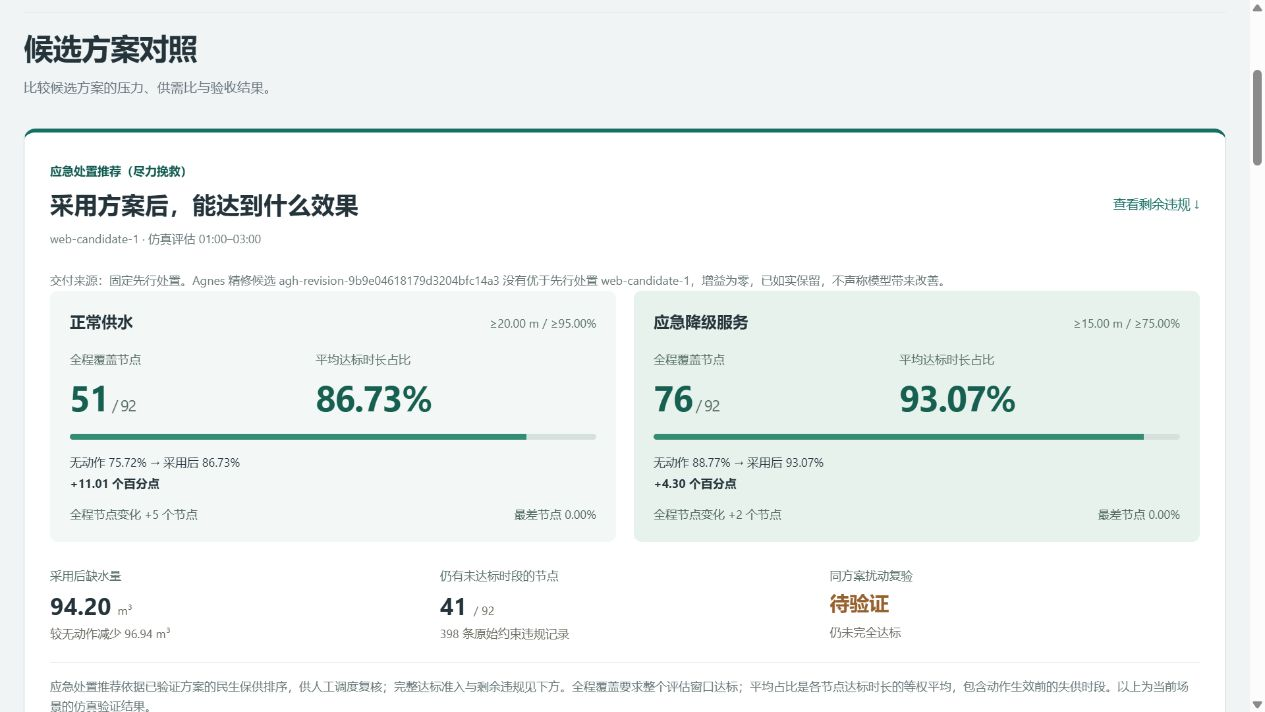
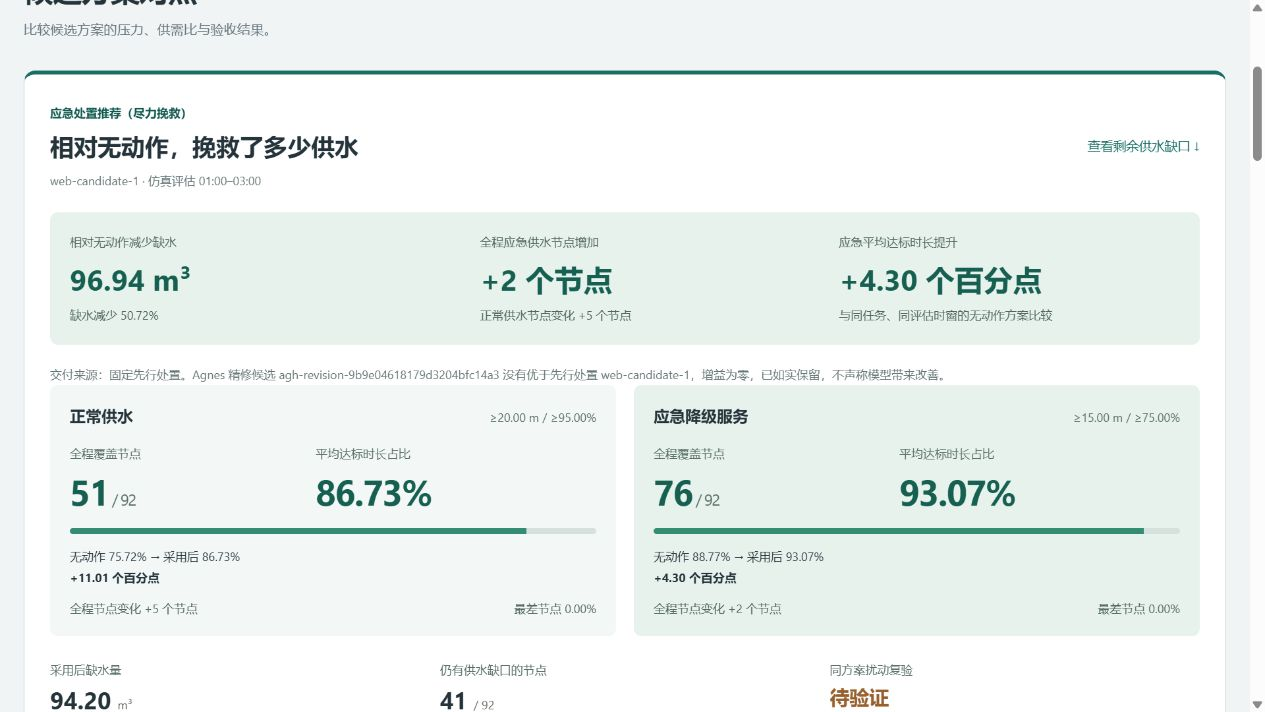
feat(ui): emphasize verified rescue and distinguish remaining supply gaps

diff --git a/apps/web-gpt/src/Pages.tsx b/apps/web-gpt/src/Pages.tsx
@@ -12,6 +12,7 @@ import {
   networkName,
   recommendationBlockerText,
   recommendedDispatch,
+  dispatchStatus,
   runStatusText,
   statusText,
   time,
@@ -50,7 +51,7 @@ export function Admission({
               )}
             </span>
             <span>{label}</span>
-            <small>{statusText[value]}</small>
+            <small>{key === "nominal_constraints_pass" ? value === "pass" ? "已恢复" : value === "fail" ? "仍有供水缺口" : "待评估" : statusText[value]}</small>
             {!compact && i < gates.length - 1 && (
               <span className="gate-connector" />
             )}
@@ -83,13 +84,13 @@ export function Violations({
       <div className="panel-heading">
         <div>
           <h2>
-            验收反馈{" "}
+            剩余供水缺口{" "}
             <span className="count">{c.verification.violations.length}</span>
           </h2>
           <span>点击记录定位节点与时段</span>
         </div>
         <select
-          aria-label="筛选违规类型"
+          aria-label="筛选剩余供水缺口类型"
           value={filter}
           onChange={(e) => {
             setFilter(e.target.value);
@@ -105,7 +106,7 @@ export function Violations({
         <p className="empty-small">
           {c.verification.validity === "invalid"
             ? "仿真数据无效，请查看无效原因。"
-            : "当前没有此类违规。"}
+            : "当前没有此类剩余供水缺口。"}
         </p>
       ) : (
         <>
@@ -227,16 +228,9 @@ export function Compare({
                 {String.fromCharCode(65 + i)}
               </span>
               <span
-                className={`badge ${dispatch?.candidate.id === c.id ? (dispatch.tier === 'fully_compliant' ? 'pass' : 'pending') : c.verification.admission.recommendation_eligible}`}
+                className={`badge ${dispatchStatus(c, w).tone}`}
               >
-                {dispatch?.candidate.id === c.id
-                  ? dispatch.tier === 'fully_compliant' ? '完全达标推荐' : '应急处置推荐'
-                  : c.verification.admission.recommendation_eligible === "pass"
-                  ? "完整准入通过"
-                  : c.verification.admission.recommendation_eligible ===
-                      "pending"
-                    ? "待验证"
-                    : "未完全达标"}
+                {dispatchStatus(c, w).label}
               </span>
             </div>
             <h2>{c.name}</h2>
@@ -274,7 +268,7 @@ export function Compare({
             </div>
             <p>最差节点正常供水时间：{c.verification.metrics.min_node_time_pass_ratio == null ? '—' : `${num(c.verification.metrics.min_node_time_pass_ratio * 100)}%`}</p>
             <p>全程完全达标节点：{c.verification.metrics.fully_compliant_node_count ?? '—'} / {c.verification.metrics.assessed_node_count ?? '—'}</p>
-            {dispatch?.candidate.id === c.id && dispatch.tier === 'best_effort' && <p>推荐用于应急尽力挽救 · 已测方案中优先保障基本供水，仍未完全达标，详见下方准入与违规。</p>}
+            {dispatch?.candidate.id === c.id && dispatch.tier === 'best_effort' && <p>推荐用于应急尽力挽救 · 已测方案中优先保障基本供水，正常供水恢复状态及剩余供水缺口另列。</p>}
             {c.task.emergency_floor && <p>应急降级服务（≥{c.task.emergency_floor.min_pressure_m} m／≥{num(c.task.emergency_floor.min_supply_ratio * 100)}%）：全程覆盖 {c.verification.metrics.nodes_reaching_emergency_service ?? '—'} 个节点；平均 {c.verification.metrics.emergency_mean_node_time_pass_ratio == null ? '—' : `${num(c.verification.metrics.emergency_mean_node_time_pass_ratio * 100)}%`}，最差 {c.verification.metrics.emergency_min_node_time_pass_ratio == null ? '—' : `${num(c.verification.metrics.emergency_min_node_time_pass_ratio * 100)}%`}。</p>}
             {w.mitigation?.candidate_id === c.id && <details><summary>相对无动作基线的逐节点改善{w.mitigation.any_node_regressed ? '（含回退节点）' : ''}</summary><table><thead><tr><th>节点</th><th>基线正常秒数</th><th>挽救正常秒数</th><th>变化（秒）</th><th>降级覆盖变化（秒）</th></tr></thead><tbody>{w.mitigation.per_node.map(row => <tr key={row.node_id}><td>{row.node_id}</td><td>{num(row.baseline_normal_s, 0)}</td><td>{num(row.selected_normal_s, 0)}</td><td>{num(row.delta_s, 0)}</td><td>{row.emergency_delta_s == null ? '未配置' : num(row.emergency_delta_s, 0)}</td></tr>)}</tbody></table></details>}
             {c.verification.metrics.node_availability && <details><summary>各节点正常供水时长与占比</summary><table><thead><tr><th>节点</th><th>正常供水 / 评估时长（秒）</th><th>占比</th></tr></thead><tbody>{c.verification.metrics.node_availability.map(row => <tr key={row.node_id}><td>{row.node_id}</td><td>{num(row.normal_supply_duration_s, 0)} / {num(row.assessed_duration_s, 0)}</td><td>{row.normal_supply_time_ratio == null ? '—' : `${num(row.normal_supply_time_ratio * 100)}%`}</td></tr>)}</tbody></table></details>}
@@ -320,10 +314,7 @@ export function Compare({
         <Icon name="shield" size={25} />
         <div>
           <strong>
-            {dispatch?.candidate.id === selected.id && dispatch.tier === 'best_effort'
-              ? '应急处置推荐 · 完全达标准入未通过'
-              : selected.verification.admission.recommendation_eligible === "pass"
-                ? "完全达标推荐准入通过" : "完全达标推荐准入未通过"}
+            {dispatchStatus(selected, w).label}
           </strong>
           <p>
             {selected.verification.recommendation_blockers.length
@@ -331,7 +322,7 @@ export function Compare({
               : "请查看五层准入与原始验收报告。"}
           </p>
           {selected.verification.verifier_version.startsWith('waterguard-dense-verifier/') && (
-            <p>验收指标与违规区间按全部内部水力时刻计算；图中曲线采用 {num(selected.task.time_window.step_s / 60)} 分钟公共采样。供水量不含漏损，压力复验必须沿用同一动作方案。</p>
+            <p>供水指标与缺口区间按全部内部水力时刻计算；图中曲线采用 {num(selected.task.time_window.step_s / 60)} 分钟公共采样。供水量不含漏损，压力复验必须沿用同一动作方案。</p>
           )}
         </div>
         <button

diff --git a/apps/web-gpt/src/ServiceOutcome.tsx b/apps/web-gpt/src/ServiceOutcome.tsx
@@ -1,5 +1,5 @@
 import type { Candidate, Workspace } from './data';
-import { deliveryProvenance, num, serviceOutcome, time } from './data';
+import { deliveryProvenance, dispatchStatus, num, serviceOutcome, time } from './data';
 import './service-outcome.css';
 
 const percent = (v: number | null) => v == null ? '未提供' : `${num(v * 100)}%`;
@@ -19,7 +19,8 @@ function provenanceText(p: NonNullable<ReturnType<typeof deliveryProvenance>>) {
 export default function ServiceOutcome({ candidate: c, workspace: w }: { candidate: Candidate; workspace: Workspace }) {
   const effect = serviceOutcome(c, w);
   if (!effect) return <section className="service-outcome"><h2>当前方案尚无有效效果评估</h2><p>查看下方验收报告中的无效原因。</p></section>;
-  const label = effect.delivery === 'mitigation' ? '应急处置推荐（尽力挽救）'
+  const status = dispatchStatus(c, w);
+  const label = status.kind === 'illegal_action' ? status.label : status.kind === 'emergency' ? '应急处置推荐（尽力挽救）'
     : effect.delivery === 'recommendation' ? '完全达标推荐' : '当前候选仿真效果 · 尚非正式交付';
   const provenance = effect.delivery === 'candidate' ? null : deliveryProvenance(w);
   const layers = [{ key: 'normal', title: '正常供水', values: effect.normal,
@@ -28,10 +29,18 @@ export default function ServiceOutcome({ candidate: c, workspace: w }: { candida
       floor: `≥${num(c.task.emergency_floor!.min_pressure_m)} m / ≥${num(c.task.emergency_floor!.min_supply_ratio * 100)}%` }] : [])];
   return <section className="service-outcome" aria-label="方案供水效果">
     <header className="service-outcome-heading">
-      <div><span className="service-outcome-label">{label}</span><h2>采用方案后，能达到什么效果</h2>
+      <div><span className="service-outcome-label">{label}</span><h2>相对无动作，挽救了多少供水</h2>
         <p>{c.name} · 仿真评估 {time(c.task.time_window.evaluation_start_s ?? c.task.time_window.start_s)}–{time(c.task.time_window.end_s)}</p></div>
-      <a className="text-button" href="#remaining-violations">查看剩余违规 ↓</a>
+      <a className="text-button" href="#remaining-violations">查看剩余供水缺口 ↓</a>
     </header>
+    <div className="service-rescue-highlight" aria-label="相对无动作的挽救效果">
+      <div><span>相对无动作减少缺水</span><strong>{effect.shortageReduction == null ? '无可比基线' : `${num(effect.shortageReduction)} m³`}</strong>
+        <small>{effect.shortageReductionPct == null ? '保留原始结果，不推断减幅' : `${effect.shortageReductionPct >= 0 ? '缺水减少' : '缺水增加'} ${num(Math.abs(effect.shortageReductionPct))}%`}</small></div>
+      <div><span>全程应急供水节点增加</span><strong>{change(effect.emergency?.deltaCount ?? null, '个节点')}</strong>
+        <small>正常供水节点变化 {change(effect.normal.deltaCount, '个节点')}</small></div>
+      <div><span>应急平均达标时长提升</span><strong>{change(effect.emergency?.deltaPp ?? null, '个百分点')}</strong>
+        <small>与同任务、同评估时窗的无动作方案比较</small></div>
+    </div>
     {provenance && <p className="service-outcome-note" data-testid="delivery-provenance">{provenanceText(provenance)}</p>}
     <div className="service-outcome-grid">
       {layers.map(({ key, title, values: v, floor }) => <article className={`service-layer ${key}`} key={key}>
@@ -46,11 +55,11 @@ export default function ServiceOutcome({ candidate: c, workspace: w }: { candida
     <div className="service-outcome-residual">
       <div><span>采用后缺水量</span><strong>{num(effect.shortage)} <small>m³</small></strong>
         <small>{effect.shortageReduction == null ? '无可比基线' : `较无动作${effect.shortageReduction >= 0 ? '减少' : '增加'} ${num(Math.abs(effect.shortageReduction))} m³`}</small></div>
-      <div><span>仍有未达标时段的节点</span><strong>{effect.residualNodeCount} <small>/ {effect.total ?? '—'}</small></strong>
-        <small>{effect.violationCount} 条原始约束违规记录</small></div>
+      <div><span>仍有供水缺口的节点</span><strong>{effect.residualNodeCount} <small>/ {effect.total ?? '—'}</small></strong>
+        <small>{effect.supplyGapCount} 条剩余供水缺口记录（节点 × 区间 × 要求）</small></div>
       <div><span>同方案扰动复验</span><strong className="service-stress">{c.verification.admission.required_stress_tests_pass === 'pass' ? '已通过' : c.verification.admission.required_stress_tests_pass === 'fail' ? '未通过' : '待验证'}</strong>
-        <small>{effect.violationCount ? '仍未完全达标' : '推荐资格以完整验收为准'}</small></div>
+        <small>{status.kind === 'emergency' ? '用于说明恢复边界，不否定应急挽救推荐' : '完整恢复状态单独核查'}</small></div>
     </div>
-    <p className="service-outcome-note">{effect.delivery === 'mitigation' && '应急处置推荐依据已验证方案的民生保供排序，供人工调度复核；完整达标准入与剩余违规见下方。'}全程覆盖要求整个评估窗口达标；平均占比是各节点达标时长的等权平均，包含动作生效前的失供时段。以上为当前场景的仿真验证结果。</p>
+    <p className="service-outcome-note">{status.kind === 'emergency' && '故障后未完全恢复不否定挽救价值：应急处置推荐依据已验证的基本供水保障效果，供人工调度复核。'}剩余供水缺口表示仍有节点或时段低于正常供水目标，不是非法操作；非法操作才属于违规。全程覆盖要求整个评估窗口达标；平均占比是各节点达标时长的等权平均，包含动作生效前的失供时段。以上为当前场景的仿真验证结果。</p>
   </section>;
 }

diff --git a/apps/web-gpt/src/agent-branches.ts b/apps/web-gpt/src/agent-branches.ts
@@ -72,7 +72,7 @@ export function branchGraph(frames: ExecutionFrame[], run: RunRecord | null) {
       const state = group.some(c => c.state === 'running') ? 'running' : group.some(c => c.state === 'fail') ? 'fail' : group.some(c => c.state === 'interrupted') ? 'interrupted' : 'ok';
       const n = place({ ...last, id: `evaluation:${group[0].id}`, title: group.length > 1 ? '仿真与验收' : last.title,
         state, startedAt: group[0].startedAt, events: group.flatMap(c => c.events), assessment,
-        summary: assessment ? `最低压力 ${assessment.metrics.min_pressure_m?.toFixed(2) ?? '—'} m · 违规 ${assessment.violation_count}` : last.summary }, 2, y + i * 286);
+        summary: assessment ? `最低压力 ${assessment.metrics.min_pressure_m?.toFixed(2) ?? '—'} m · 剩余供水缺口 ${assessment.violation_count}` : last.summary }, 2, y + i * 286);
       group.forEach(c => mapped.set(c.id, n.id));
       const preceding = submissions.filter(c => Date.parse(c.startedAt) <= Date.parse(group[0].startedAt)).at(-1);
       connect(preceding?.id ?? candidate.id, n.id, 'chosen');
@@ -83,7 +83,7 @@ export function branchGraph(frames: ExecutionFrame[], run: RunRecord | null) {
         const gate = place({ id: `${n.id}:${key}`, title: `${title}${result === 'pass' ? '通过' : result === 'fail' ? '未通过' : '待验证'}`,
           kind: 'condition', tool: '调用时验收报告', state: result === 'pass' ? 'ok' : result === 'fail' ? 'fail' : 'wait',
           statusLabel: result === 'pass' ? '通过' : result === 'fail' ? '未通过' : '待验证',
-          summary: key === 'nominal_constraints_pass' ? `违规 ${assessment.violation_count} 项` : result === 'pending' ? '等待扰动验收结果' : result === 'pass' ? '扰动验收已通过' : '扰动验收未通过',
+          summary: key === 'nominal_constraints_pass' ? `剩余供水缺口 ${assessment.violation_count} 项` : result === 'pending' ? '等待扰动验收结果' : result === 'pass' ? '扰动验收已通过' : '扰动验收未通过',
           startedAt: report!.occurred_at, events: [], candidateId: id, assessment, x: 0, y: 0 }, 3, n.y + j * 134);
         connect(n.id, gate.id, 'outcome', title); bottom = Math.max(bottom, gate.y + L.h);
       }

diff --git a/apps/web-gpt/src/App.tsx b/apps/web-gpt/src/App.tsx
@@ -7,10 +7,10 @@ import {
   engineStatus,
   loadWorkspace,
   deliveredCandidate,
+  dispatchStatus,
   networkName,
   num,
   sources,
-  statusText,
   time,
 } from "./data";
 import type { Candidate, Source, Workspace } from "./data";
@@ -157,7 +157,6 @@ function Inspector({
         : link?.kind === "valve"
           ? "阀门"
           : "管段";
-  const eligible = c.verification.admission.recommendation_eligible;
   return (
     <aside className="inspector">
       <div className="inspector-top">
@@ -313,15 +312,11 @@ function Inspector({
               : "方案来源：固定工程脚本"}
         </p>
       </div>
-      <div className={`inspector-verdict ${eligible}`}>
+      <div className={`inspector-verdict ${dispatchStatus(c, w).tone}`}>
         <Icon name="shield" size={19} />
         <div>
           <strong>
-            {eligible === "pass"
-              ? "可推荐"
-              : eligible === "pending"
-                ? "推荐待验证"
-                : "当前不可推荐"}
+            {dispatchStatus(c, w).label}
           </strong>
         </div>
       </div>
@@ -684,11 +679,9 @@ function Overview({
         </div>
         <Admission key={c.id} candidate={c} />
         <span
-          className={`badge ${c.verification.admission.recommendation_eligible}`}
+          className={`badge ${dispatchStatus(c, w).tone}`}
         >
-          {w.run?.mitigation_candidate_id === c.id ? '尽力挽救 · 未完全达标' : c.verification.admission.recommendation_eligible === "fail"
-            ? "不可推荐"
-            : statusText[c.verification.admission.recommendation_eligible]}
+          {dispatchStatus(c, w).label}
         </span>
       </div>
       <div className="lower-grid">

diff --git a/apps/web-gpt/src/Network.tsx b/apps/web-gpt/src/Network.tsx
@@ -180,7 +180,7 @@ export function Network({
     !!frame &&
     frame.time_s >= fault.start_s &&
     frame.time_s < fault.end_s;
-  // 当前帧落在违规时段 [start, end) 内的节点：由验收报告给出，不由前端判定。
+  // 当前帧落在剩余供水缺口时段 [start, end) 内的节点：由验收报告给出，不由前端判定。
   const violating = new Set(
     frame
       ? c.verification.violations
@@ -377,7 +377,7 @@ export function Network({
   useEffect(() => {
     setView(FIT);
   }, [w.scene]);
-  // 外部选中（违规列表、搜索）的实体若在视野外，平移过去。
+  // 外部选中（剩余供水缺口列表、搜索）的实体若在视野外，平移过去。
   useEffect(() => {
     const p = worldOf(entity);
     if (!p) return;
@@ -650,7 +650,7 @@ export function Network({
           "",
         ],
       ] as [string, string, string][],
-      note: violating.has(node.id) ? "当前时段违规（验收报告）" : "",
+      note: violating.has(node.id) ? "当前时段剩余供水缺口（验收报告）" : "",
     };
   })();
   function isFaultLink(id: string) {
@@ -850,7 +850,7 @@ export function Network({
               </span>
               <span className="map-chip">
                 <i className="dot ring" />
-                当前违规 <b>{violating.size}</b>
+                当前剩余供水缺口 <b>{violating.size}</b>
               </span>
             </>
           )}
@@ -1251,7 +1251,7 @@ export function Network({
               </span>
               <span>
                 <i className="dot ring" />
-                当前时段违规
+                当前时段剩余供水缺口
               </span>
             </>
           )}

diff --git a/apps/web-gpt/src/service-outcome.css b/apps/web-gpt/src/service-outcome.css
@@ -4,6 +4,9 @@
 .service-outcome-heading h2 { margin: 8px 0; font-size: 24px; }
 .service-outcome-heading p, .service-outcome-note { color: #657575; font-size: 12px; line-height: 1.7; margin: 0; }
 .service-outcome-grid { display: grid; grid-template-columns: repeat(2, minmax(0, 1fr)); gap: 18px; }
+.service-rescue-highlight { display: grid; grid-template-columns: 1.15fr 1fr 1fr; gap: 18px; padding: 20px; margin-bottom: 20px; border-radius: 8px; background: #e7f2ed; }
+.service-rescue-highlight span, .service-rescue-highlight small { display: block; color: #526760; font-size: 12px; line-height: 1.7; }
+.service-rescue-highlight strong { display: block; margin: 7px 0; color: #165f51; font-size: clamp(21px, 2.3vw, 30px); font-variant-numeric: tabular-nums; }
 .service-layer { padding: 20px; background: #f3f7f6; border-radius: 8px; min-width: 0; }
 .service-layer.emergency { background: #e7f2ed; }
 .service-layer-heading { display: flex; flex-wrap: wrap; align-items: baseline; justify-content: space-between; gap: 8px; }
@@ -29,6 +32,7 @@
   .service-outcome-heading h2 { font-size: 20px; }
   .service-outcome-heading > a { display: inline-block; margin-top: 12px; }
   .service-outcome-grid { grid-template-columns: 1fr; }
+  .service-rescue-highlight { grid-template-columns: 1fr; padding: 16px; }
   .service-layer { padding: 16px; }
   .service-layer-values strong { font-size: 30px; }
   .service-outcome-residual { grid-template-columns: 1fr; gap: 16px; }

diff --git a/apps/web-gpt/src/agent-execution.ts b/apps/web-gpt/src/agent-execution.ts
@@ -139,9 +139,9 @@ export function executionGraph(frames: ExecutionFrame[], run: RunRecord | null, 
     const noFeasible = run.conclusion === 'NO_FEASIBLE_FOUND';
     nodes.push({ id: 'host-final-admission', title: '最终准入汇总', tool: '运行服务汇总', kind: 'condition',
       state: feasible || mitigation ? 'ok' : noFeasible ? 'fail' : 'wait',
-      statusLabel: feasible ? '可推荐' : mitigation ? '尽力挽救 · 未完全达标' : noFeasible ? '已测范围无可行方案' : '证据不完整',
+      statusLabel: feasible ? '可推荐' : mitigation ? '应急处置推荐 · 尽力挽救' : noFeasible ? '已测范围无可行方案' : '证据不完整',
       summary: feasible ? `${run.selected_candidate_id}：名义约束、同方案扰动与原生记录均通过` :
-        mitigation ? `${run.mitigation_candidate_id}：已交付基线改善方案；仍有准入未通过，不可推荐为完全达标` :
+        mitigation ? `${run.mitigation_candidate_id}：已交付相对无动作的挽救方案；剩余供水缺口和完整恢复状态另列` :
         noFeasible ? '已测候选未满足冻结约束；保留失败与改进证据' : '必要验收或关联证据尚不完整',
       candidateId: run.selected_candidate_id ?? run.mitigation_candidate_id, startedAt: frames.find(f => f.type === 'end')!.occurred_at,
       events: [], x: 0, y: 0 });

diff --git a/apps/web-gpt/src/AgentPage.tsx b/apps/web-gpt/src/AgentPage.tsx
@@ -660,8 +660,8 @@ function NodePanel({
             <dd>{conclusionText[run.conclusion] ?? run.conclusion}</dd>
           </div>
           <div className="wide">
-            <dt>选定方案</dt>
-            <dd>{run.selected_candidate_id ?? "未选定"}</dd>
+            <dt>交付方案</dt>
+            <dd>{run.selected_candidate_id ?? run.mitigation_candidate_id ?? "尚无已验证交付"}</dd>
           </div>
         </dl>
       )}
@@ -785,7 +785,7 @@ function EventDetail({
           <Gates c={c} />
           {c.verification.violations.length > 0 && (
             <p className="wf-line">
-              违规 {c.verification.violations.length} 条，例：节点{" "}
+              剩余供水缺口 {c.verification.violations.length} 条，例：节点{" "}
               <span className="mono">
                 {c.verification.violations[0].node_id}
               </span>{" "}
@@ -803,7 +803,7 @@ function EventDetail({
           )}
           {c.verification.recommendation_blockers.length > 0 && (
             <p className="wf-line muted">
-              不能推荐的原因：
+              完整恢复尚待满足的条件：
               {c.verification.recommendation_blockers.map((reason) => recommendationBlockerText[reason] ?? reason).join("、")}
             </p>
           )}

diff --git a/apps/web-gpt/src/cover-stage.ts b/apps/web-gpt/src/cover-stage.ts
@@ -1,7 +1,7 @@
 import type { Workspace } from "./data";
 
 /* 首页背景舞台：把真实管网画成深色背景上的发光「全息沙盘」。
-   只读当前接口结果（拓扑、各方案逐帧压力与流量、故障、动作、违规节点）；
+   只读当前接口结果（拓扑、各方案逐帧压力与流量、故障、动作、剩余供水缺口节点）；
    镜头和状态由外部给目标值，这里每帧按时间常数平滑逼近，滚动再快画面也是连续的。 */
 
 export interface StageFrame {
@@ -486,7 +486,7 @@ export class StageRenderer {
           `${l.kind === "pump" ? "水泵" : "管段"} ${l.id}`,
         );
       }
-    // 违规节点红圈
+    // 剩余供水缺口节点红圈
     if (v.violations > 0.02)
       for (const ni of d.violationNodes) {
         const [x, y] = pts[ni];

diff --git a/apps/web-gpt/src/agent-flow.ts b/apps/web-gpt/src/agent-flow.ts
@@ -234,8 +234,8 @@ export function flowState(
         nodes.cond.count += 1;
         nodes.cond.state = nominal ? "wait" : "fail";
         nodes.cond.note = nominal
-          ? "硬约束通过；扰动复验未做，不能推荐"
-          : `${c?.name ?? "方案"} 硬约束未通过 → 修改`;
+          ? "正常供水已恢复；完整恢复仍待扰动复验"
+          : `${c?.name ?? "方案"} 正常供水仍有缺口 → 继续挽救`;
         if (nominal) {
           edges.add("cond>review");
           if (nodes.review.state !== "off") nodes.review.state = "wait";

diff --git a/apps/web-gpt/src/agent-mindmap.ts b/apps/web-gpt/src/agent-mindmap.ts
@@ -221,7 +221,7 @@ export function mindState(
         const r = nodes.revise;
         r.count += 1;
         if (r.state !== "off") r.state = "ok";
-        r.note = `${c?.name ?? "方案"}：硬约束未通过 → 修改（第 ${r.count} 次）`;
+        r.note = `${c?.name ?? "方案"}：正常供水仍有缺口 → 继续挽救（第 ${r.count} 次）`;
       } else {
         edges.add("review");
         reviewed = a.required_stress_tests_pass === "pass";
